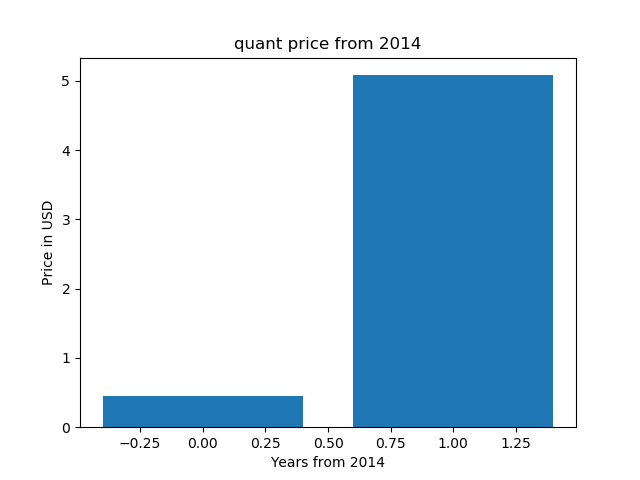
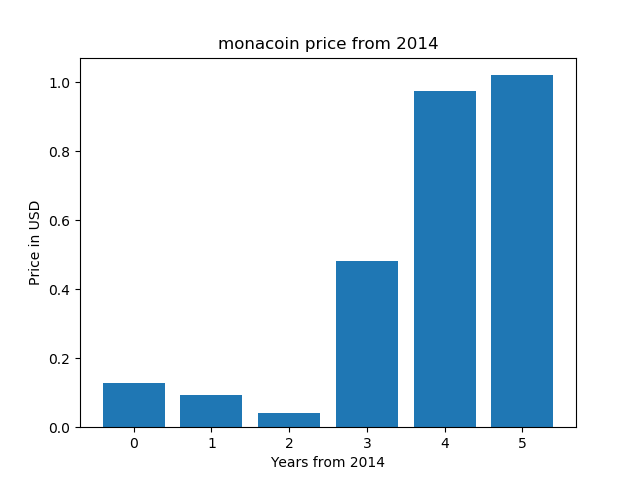
first commit

diff --git a/example.py b/example.py
@@ -10,7 +10,7 @@ from time import gmtime, strftime
 import matplotlib.pyplot as plt
 
 enddate = strftime("%Y%m%d", gmtime())
-r  = requests.get("https://coinmarketcap.com/currencies/quant/historical-data/?start=20140101&end={0}".format(enddate))
+r  = requests.get("https://coinmarketcap.com/currencies/monacoin/historical-data/?start=20140101&end={0}".format(enddate))
 data = r.text
 
 soup = BeautifulSoup(data, "html.parser")
@@ -44,7 +44,7 @@ print(x)
 
 x = list(range(0, len(prices)))
 
-plt.title('quant price from 2014')
+plt.title('monacoin price from 2014')
 plt.ylabel('Price in USD')
 plt.xlabel('Years from 2014')
 plt.bar(x, prices)

diff --git a/README.md b/README.md
@@ -1,6 +1,6 @@
-# quant price chart 
+# monacoin price chart 
 
-quant price chart (matplotlib, python)
+monacoin price chart (matplotlib, python)
 
 https://pythonprogramminglanguage.com
 
